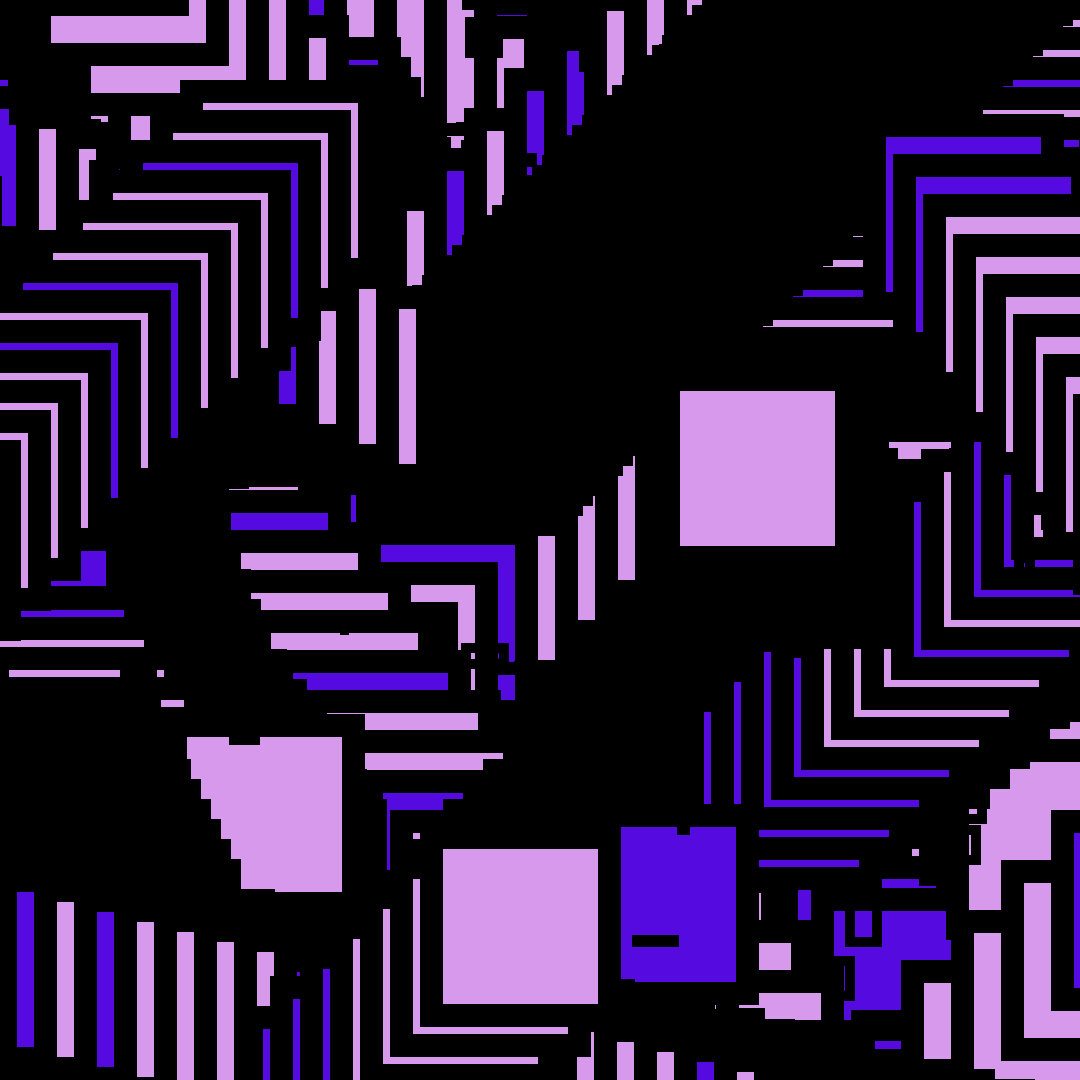
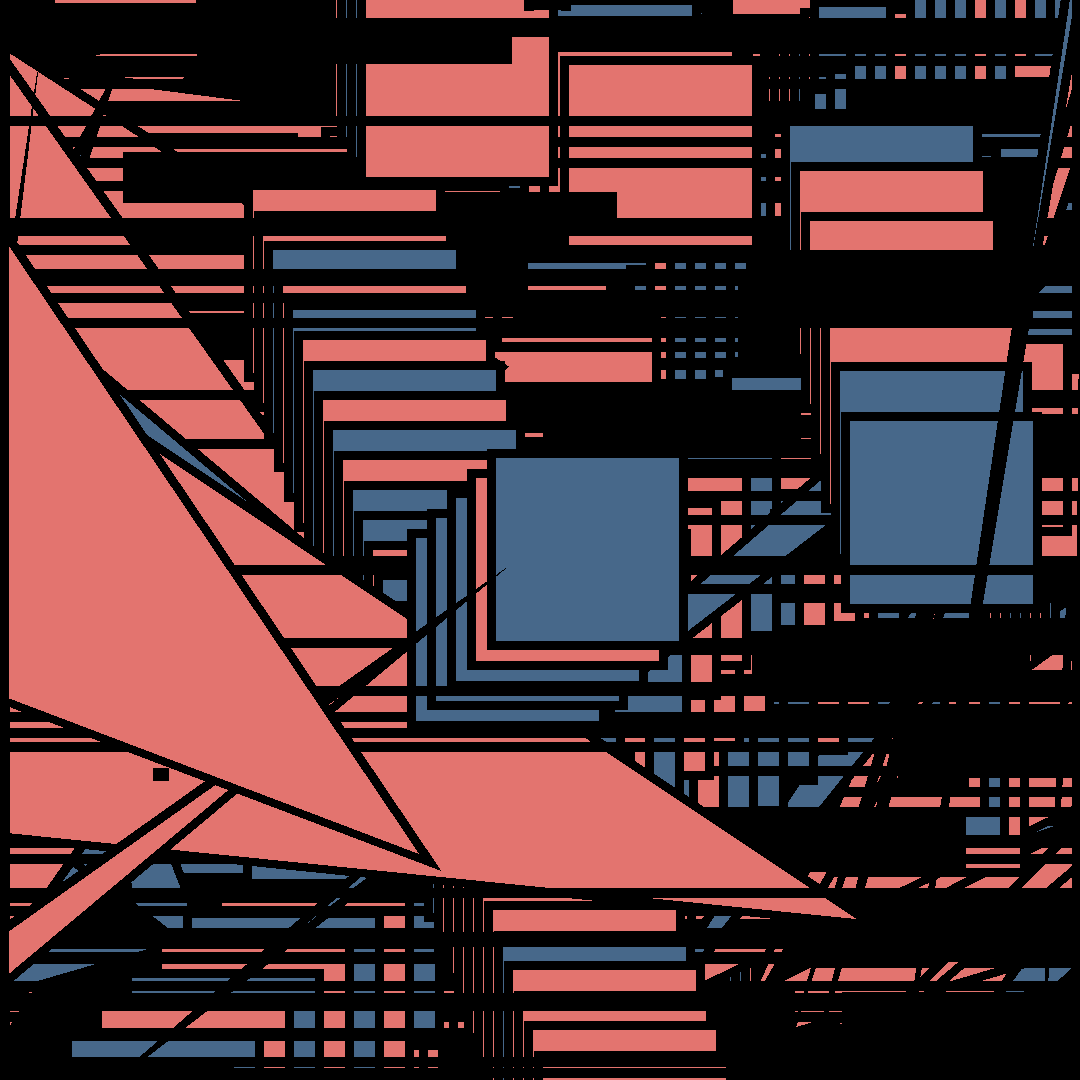
Add files via upload

diff --git a/main.py b/main.py
@@ -95,7 +95,7 @@ shapes = 90
 
 
 count = 1
-shapewidth = random.randint(20,25)
+shapewidth = random.randint(1, 20)
 
 art = Image.open('back.png')
 draw = ImageDraw.Draw(art)
@@ -103,7 +103,7 @@ width, height = art.size
 
 # --- Traits --- #
 def glitchbranch():
-  for _ in range(0):
+  for _ in range(1):
     branch_count = random.randint(5, 15)
     for _ in range(branch_count):
       branch_pos = random.randint(0, width)
@@ -119,7 +119,7 @@ def shards():
     draw.rectangle((x_1, y_1, x_2, y_2), outline=0, width=10)
 
 def censorship():
-  for _ in range(0):
+  for _ in range(1):
     censor_count = random.randint(0, 5)
     for _ in range(censor_count):
       x_1 = random.randint(0, width)
@@ -165,7 +165,7 @@ def shape_drag():
 
 def triangles():
   # Left: 1, Right: 2
-  for _ in range(0):
+  for _ in range(2):
     side = random.randint(1, 2)
     if side == 1:
       x_1 = 0
